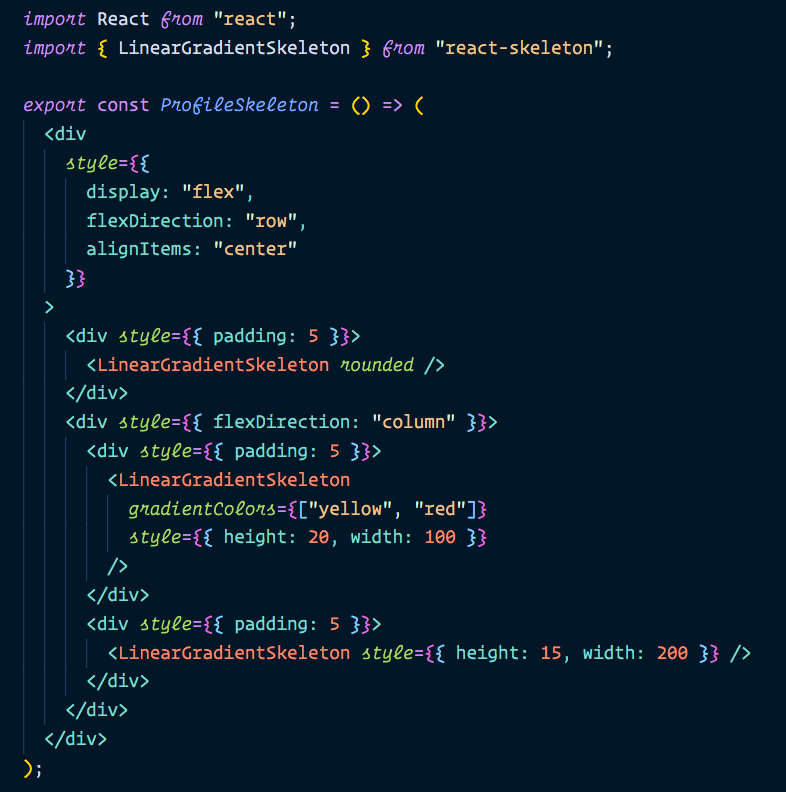
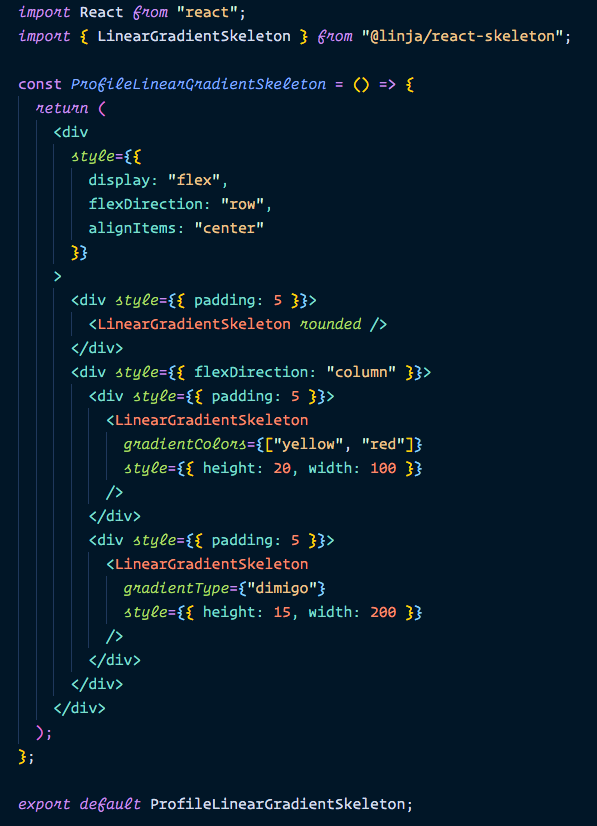
updated library name

diff --git a/README.md b/README.md
@@ -20,11 +20,11 @@ We all know that without loader in _React_ components, user interface will not c
 
 ```
 
-npm install react-skeleton --save
+npm install @linja/react-skeleton --save
 
 OR
 
-yarn add react-skeleton --save
+yarn add @linja/react-skeleton --save
 
 ```
 
@@ -34,7 +34,7 @@ yarn add react-skeleton --save
 
 ```js
 import React from "react";
-import { Skeleton } from "react-skeleton";
+import { Skeleton } from "@linja/react-skeleton";
 
 export const GoodLoader = () => {
   return <Skeleton />;
@@ -77,7 +77,7 @@ export const GoodLoader = () => {
 
 ```js
 import React from "react";
-import { LinearGradientSkeleton } from "react-skeleton";
+import { LinearGradientSkeleton } from "@linja/react-skeleton";
 
 export const GoodLoader = () => {
   return <LinearGradientSkeleton />;
